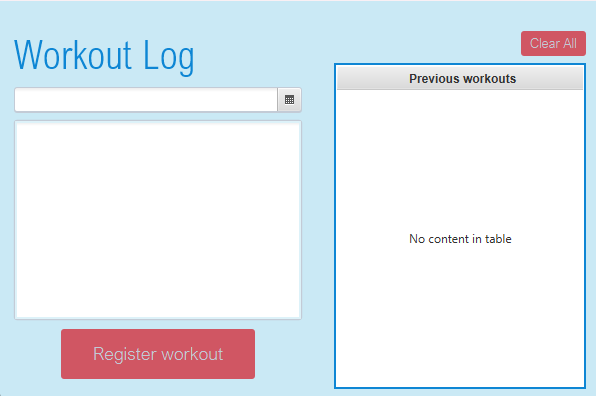
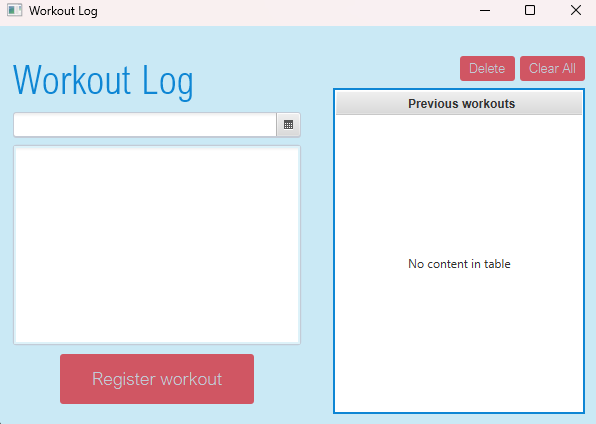
[root] Updated userstory for delete button to better explain button function (#46)

diff --git a/workout-app/userstories.md b/workout-app/userstories.md
@@ -76,12 +76,12 @@ As a person that logs my workouts, I want to be able to delete workouts that was
 
 I also want the option to clear all workouts from the list, so that I can start creating a new list fast without having to use a lot of time deleting each workout individually.
 
-The user want to be able to remove (delete and clear) workouts in list if something is added by mistake or if the user don't want any of their previous workouts. On all the elements there will be added a delete button on the right side, under the condition that the workout exists. If there are no elements there won't be any delete buttons, also if you click clear in this case, nothing will happen.
+The user want to be able to remove (delete and clear) workouts in list if something is added by mistake or if the user don't want any of their previous workouts. The user can click on the elements they want to delete and then the delete button. If there are no elements there won't be any delete buttons, also if you click clear in this case, nothing will happen.
 
 ### Important to be able to see
 
 - Clear: button for removing all of the workouts
-- Delete: buttons on all the workouts
+- Delete: button that removes chosen elements
 
 ### Important to be able to do
   
@@ -93,4 +93,4 @@ The user want to be able to remove (delete and clear) workouts in list if someth
 ![App Screenshot](ui/src/main/resources/ui/img/workoutapp-release3.PNG)
 *Figure 2: Screenshot of the UI after release 3*
 
-The screenshot with clear button and date input
+The screenshot with clear and delete button and date input
